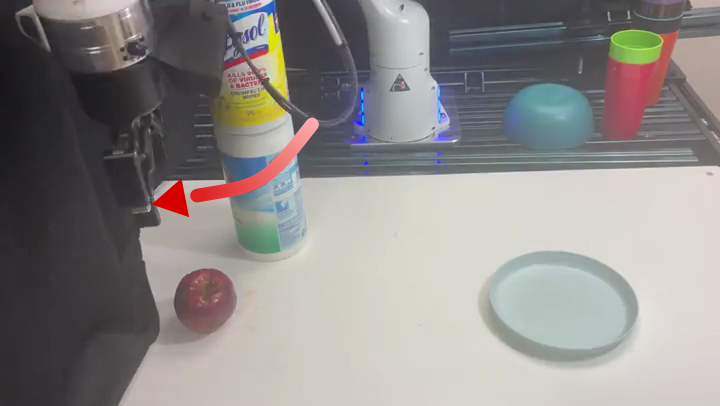
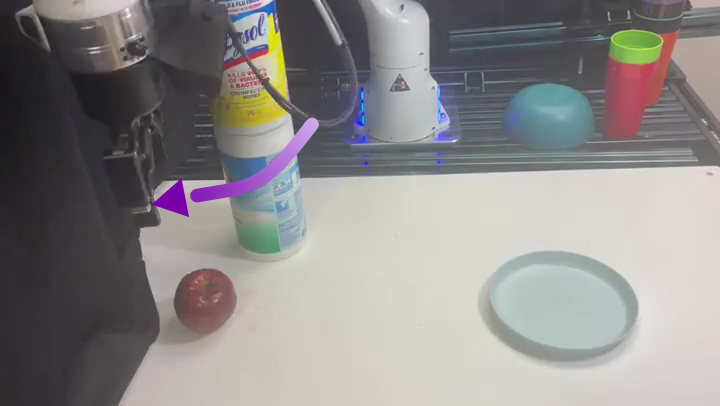
Colour-coded trajectory arrows and final_figures folder

Changed region(s): [[0.2139, 0.2956, 0.4583, 0.532]]

diff --git a/assets/hardware/frames/render_trajectories.py b/assets/hardware/frames/render_trajectories.py
@@ -6,8 +6,20 @@ import json, sys, os
 import numpy as np, cv2
 
 SS = 4                      # supersampling for anti-aliasing
-A = np.array([175, 175, 255], float)   # light red (BGR)
-B = np.array([0, 0, 215], float)       # red (BGR)
+def rgb(r, g, b):
+    return np.array([b, g, r], float)   # stored as BGR for OpenCV
+
+
+# (start colour, end colour) by output filename prefix; the end colour is the current position
+SCHEMES = {
+    "2_": (rgb(255, 175, 175), rgb(215, 0, 0)),     # gradient guidance: light red -> red
+    "3_": (rgb(205, 170, 235), rgb(120, 0, 170)),   # projection: light purple -> purple
+    "7_": (rgb(205, 170, 235), rgb(120, 0, 170)),
+    "6_": (rgb(170, 235, 170), rgb(0, 150, 40)),    # rejection: light green -> green
+    "8_": (rgb(120, 0, 170), rgb(0, 150, 40)),      # CS-Pi: purple -> green
+    "5_": (rgb(120, 0, 170), rgb(0, 150, 40)),
+}
+A, B = SCHEMES["2_"]
 
 
 def catmull(p, n=40):
@@ -42,7 +54,7 @@ def smooth(p, frac=0.12, n=400):
     return out
 
 
-def draw_arrow(img, pts, W=13):
+def draw_arrow(img, pts, W=13, A=A, B=B):
     s = smooth(pts) * SS
     W *= SS
     L = np.r_[0, np.cumsum(np.hypot(*np.diff(s, axis=0).T))]
@@ -75,7 +87,8 @@ def main():
             continue
         im = cv2.imread(base)
         big = cv2.resize(im, None, fx=SS, fy=SS, interpolation=cv2.INTER_CUBIC)
-        draw_arrow(big, pts, W=13 * im.shape[1] / 720)
+        A_, B_ = next((v for k, v in SCHEMES.items() if name.startswith(k)), (A, B))
+        draw_arrow(big, pts, W=13 * im.shape[1] / 720, A=A_, B=B_)
         cv2.imwrite(os.path.join(out, name),
                     cv2.resize(big, (im.shape[1], im.shape[0]), interpolation=cv2.INTER_AREA))
         print("wrote", os.path.join(out, name))

diff --git a/assets/hardware/frames/build_final.py b/assets/hardware/frames/build_final.py
@@ -1,0 +1,19 @@
+"""Merge waypoints, render coloured arrows, and collect the 9 final figures into ../final_figures."""
+import json, os, shutil, subprocess
+
+os.chdir(os.path.dirname(os.path.abspath(__file__)))
+old = json.load(open("waypoints.json"))
+new = json.load(open("waypoints_extra.json"))
+m = {k: v for k, v in old.items() if k[:2] in ("2_", "3_", "5_")}
+m.update(new)
+json.dump(m, open("waypoints_all.json", "w"), indent=1)
+subprocess.run(["python3", "render_trajectories.py", "waypoints_all.json", "with_trajectories"], check=True)
+
+os.makedirs("../final_figures", exist_ok=True)
+mp = {"2_gradient_guidance_failure": "1_gradient_guidance",
+      "7_projection_before": "2a_projection_before", "3_projection_failure": "2b_projection_after",
+      "6_rejection_1": "3_rejection_1", "6_rejection_2": "3_rejection_2", "6_rejection_3": "3_rejection_3",
+      "8_cspi_1": "4_cspi_1", "8_cspi_2": "4_cspi_2", "5_cspi": "4_cspi_3"}
+for a, b in mp.items():
+    shutil.copy(f"with_trajectories/{a}.png", f"../final_figures/{b}.png")
+print(sorted(os.listdir("../final_figures")))
